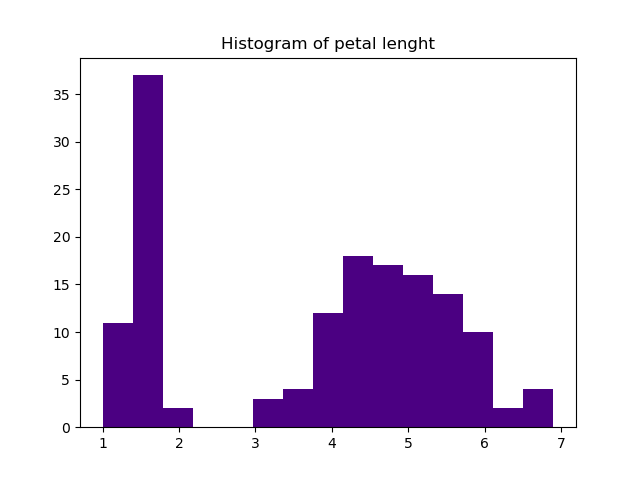
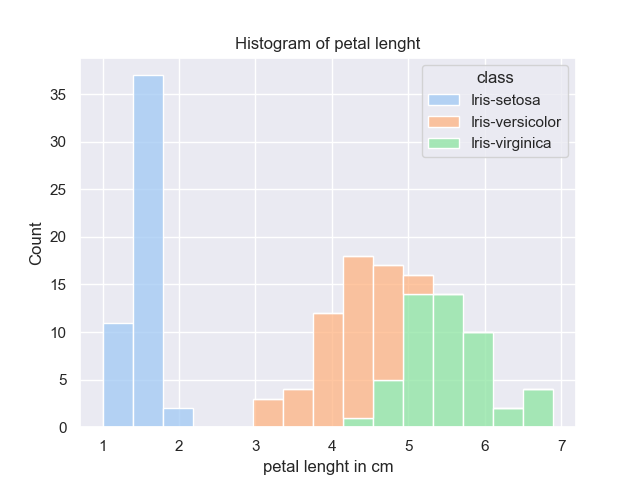
nicergraphs

diff --git a/analysis.py b/analysis.py
@@ -7,10 +7,8 @@ from scipy.stats import f_oneway
 import seaborn as sns
 
 
-
-
-pd.set_option("precision", 2)
-
+pd.set_option("precision", 2) # set pandas decimal precision
+sns.set_theme(palette="pastel") #set color seaborn plots
 
 # Define functions
 def appendTable(input,title):
@@ -52,15 +50,18 @@ appendText(summaryDesc)
 
 # histograms
 
-colors = ["aqua","coral","indigo","lavender","lightgreen"]
 
-n_bins = 15
-for i, j  in zip(variableNames, colors):
-    plt.hist(data[i], n_bins, facecolor = j)
+for i in variableNames:
+
+    sns.histplot(data=data, x=i, hue="class", multiple="stack",bins=15,)
+    sns.light_palette("seagreen", as_cmap=True)
+    plt.xlabel(i+" in cm")
     plt.title("Histogram of " + i)
     plt.savefig(i + ".png")
     plt.close()
-    
+
+
+
 # Data as arrays
 
 sepalLenght = data["sepal lenght"].to_numpy()
@@ -78,11 +79,11 @@ Titles = ["sepal lenght sepal width","sepal lenght petal lenght","sepal lenght p
 
 
 for i, j, k in zip(xVariables,yVariables,Titles):
-    plt.scatter(i,j)
-    #plt.savefig(k)
+    #plt.scatter(i,j)
+    sns.scatterplot(data=data, x=i, y=j,hue="class")
+    plt.savefig(k)
     plt.close()
-
-
+    
 
 
 # summary statistics by iris class
@@ -97,14 +98,6 @@ appendTable(groupDesc,"\n Descriptive Statistics by Class")
 irisSetosa = data.loc[data["class"] == "Iris-setosa"]
 IrisVersicolor = data.loc[data["class"] == "Iris-versicolor"]
 IrisVirginica = data.loc[data["class"] == "Iris-virginica"]
-
-
-
-# group graphs
-
-
-
-
 
 
 
@@ -149,3 +142,23 @@ appendText("Sepal Width F-Test")
 appendText(repr(sepalLenghtTest))
 
 #appendText(sepalLenghtTest)
+
+
+
+''''
+
+# histograms
+
+colors = ["aqua","coral","indigo","lavender","lightgreen"]
+
+n_bins = 15
+for i, j  in zip(variableNames, colors):
+    plt.hist(data[i], n_bins, facecolor = j)
+    plt.title("Histogram of " + i)
+    plt.savefig(i + ".png")
+    plt.close()
+    
+sns.kdeplot(data=data, x="petal lenght", hue="class", multiple="stack")
+plt.show()
+
+'''

diff --git a/README.md b/README.md
@@ -57,6 +57,8 @@ To create historgrams of the variables I use the hist() funtion from matplotlib[
 [11]https://stackoverflow.com/questions/18648626/for-loop-with-two-variables
 [12]https://stackoverflow.com/questions/37734512/savefig-loop-adds-previous-plots-to-figure
 [13]https://matplotlib.org/3.1.1/tutorials/colors/colors.html
+https://seaborn.pydata.org/generated/seaborn.histplot.html?highlight=histplot#seaborn.histplot
+https://seaborn.pydata.org/generated/seaborn.color_palette.html#seaborn.color_palette
 
 
 # Data as Arrays
